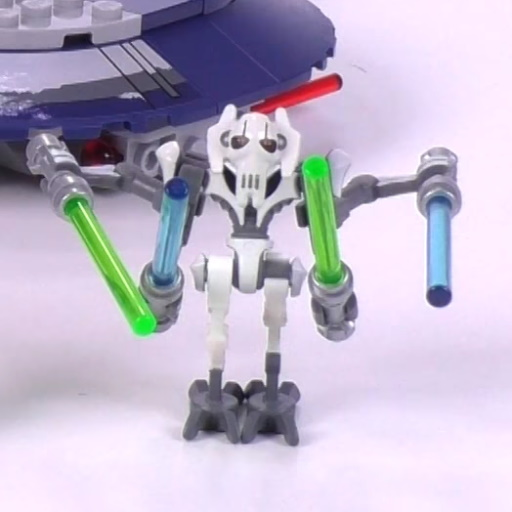
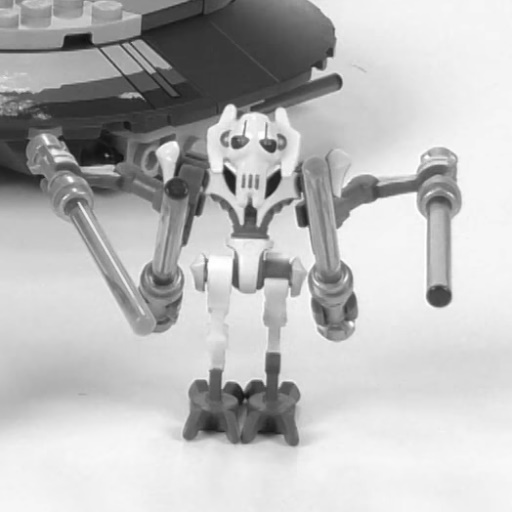
Actualizacion de Codigo img2Grey.py y generacion de imagenes en Escala de Grises

diff --git a/img2Grey.py b/img2Grey.py
@@ -1,26 +1,22 @@
 import cv2
 import numpy as np
 
-#Cargar la imagen a color
-IRGB_1 = cv2.imread('002.jpg')
-IGRGB_2 = cv2.imread("003.jpg")
-IRGB_3 = cv2.imread("008.jpg")
-IRGB_4 = cv2.imread("011.jpg")
+def img2Grey(original,nombre):
 
-def img2Grey(imagen,nombreArchvioGrey):
-
-    print(imagen)
-    print(imagen.shape)
+    IRGB= cv2.imread(original)
+    print(IRGB)
+    print(IRGB.shape)
     print("Lineas agregadas en la rama2")
-    IGS=cv2.cvtColor(imagen,cv2.COLOR_BGR2GRAY)
+    IGS=cv2.cvtColor(IRGB,cv2.COLOR_BGR2GRAY)
     print(IGS)
     print(IGS.shape)
-    cv2.imwrite(NombreArchivoGrey,IGS)
+    return cv2.imwrite(nombre,IGS)
 
 
-img2Grey(IRGB_1,"002GS.jpg")
-img2Grey(IGRGB_2,"003GS.jpg")
-img2Grey(IRGB_3,"008GS.jpg")
-img2Grey(IRGB_4,"011GS.jpg")
 
+
+img2Grey("002.jpeg","002GS.jpeg")
+img2Grey("003.jpeg","003GS.jpeg")
+img2Grey("008.jpeg","008GS.jpeg")
+img2Grey("011.jpeg","011GS.jpeg")
 
